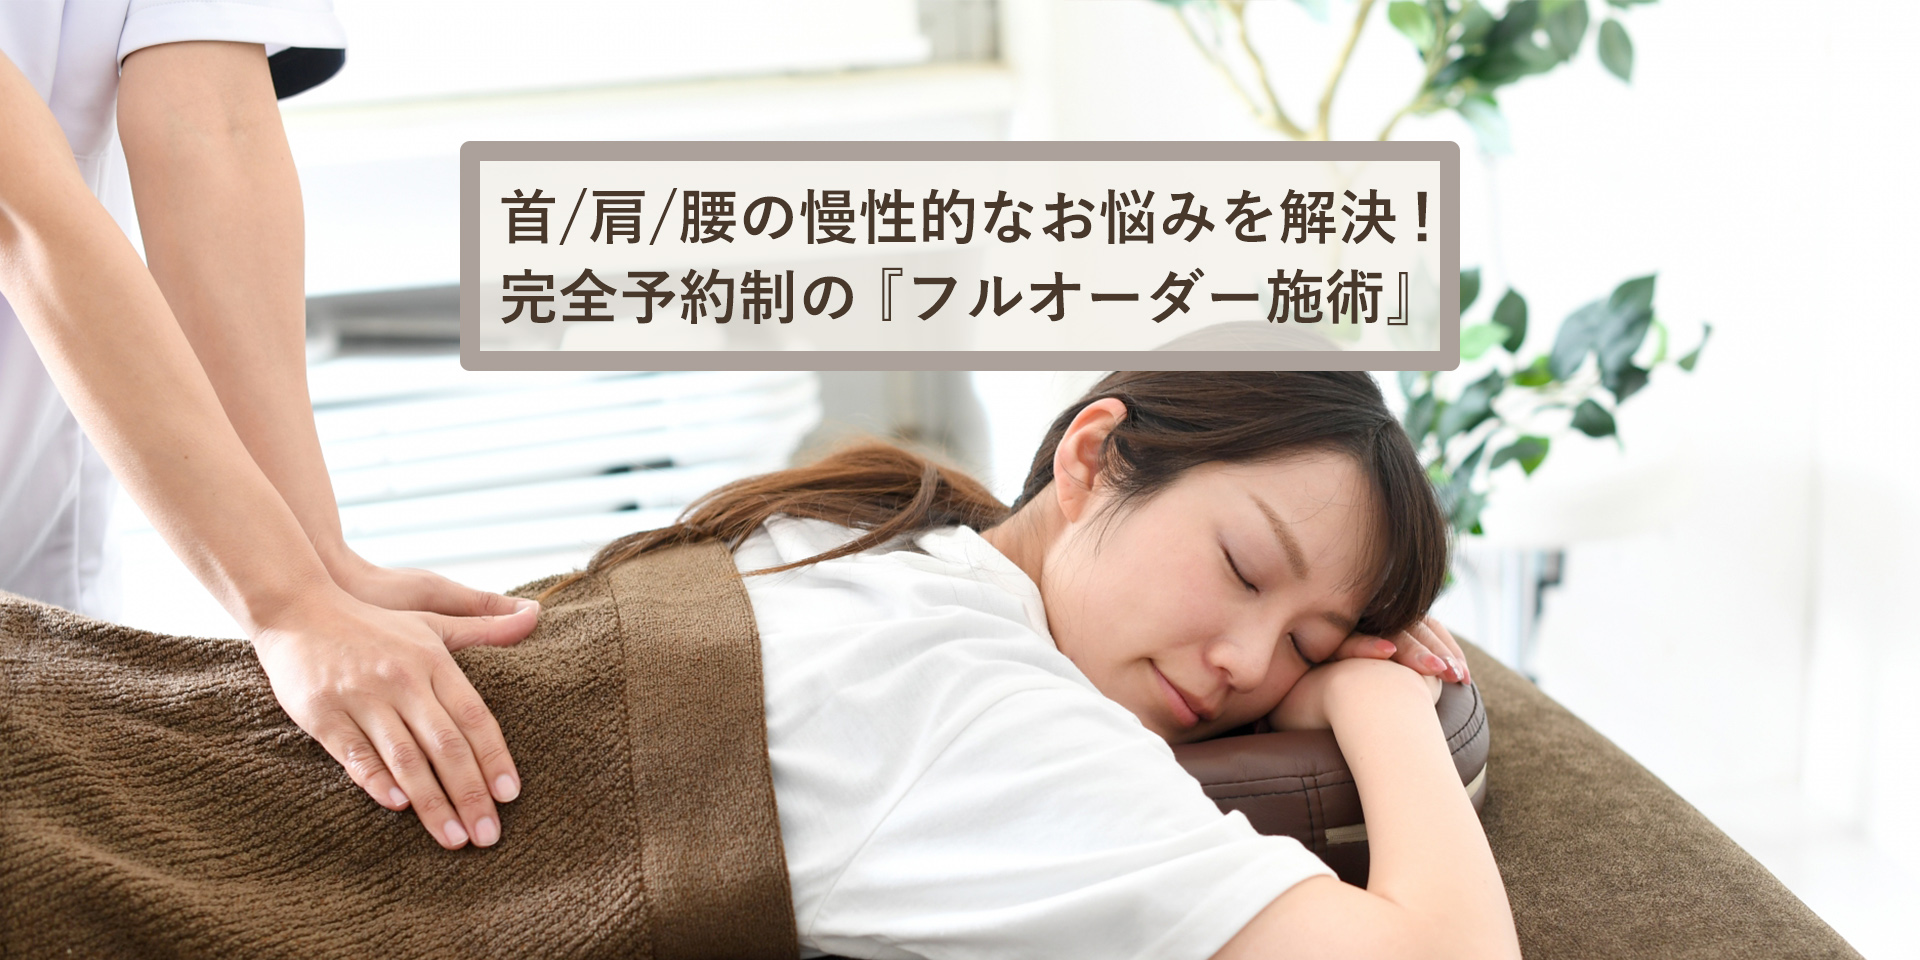
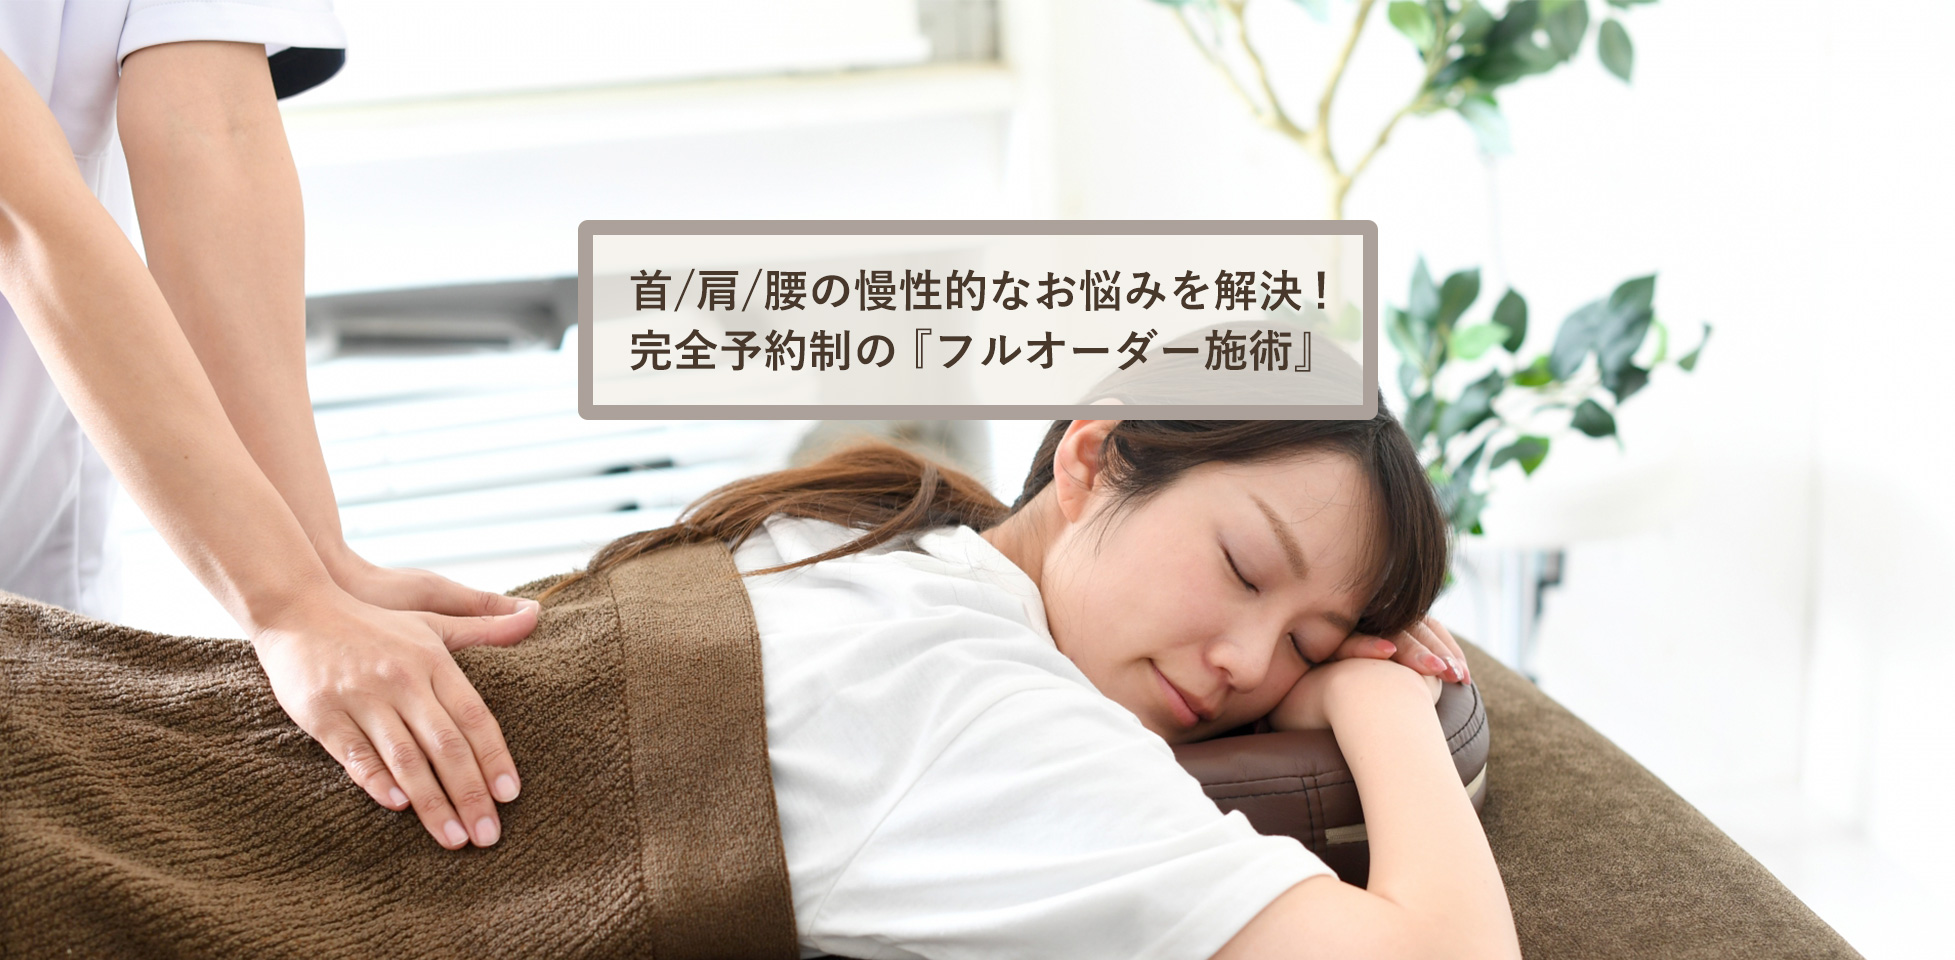
PC:ヘッダ～コンセプト修正

diff --git a/manipulative.css b/manipulative.css
@@ -329,10 +329,10 @@ a.totop:before {
     background-size: cover;
     background-position: center;
     width: 100%;
-    height: 100vh;
+    height: 70vh;
     z-index: -999;
     transition: 0.3s;
-    margin-top: 2%;
+    margin-top: 114px;
 }
 
 @media only screen and (max-width: 1450px) {
@@ -476,7 +476,7 @@ header {
     /* height: 10%; */
     width: 100%;
     background: #ACA19A;
-    height: 140px;
+    height: 114px;
     text-align: center;
 }
 
@@ -554,7 +554,7 @@ header {
     background-color: #48382B;
     outline: 1px solid rgb(255, 255, 255);
     outline-offset: -5px;
-    height: 139px;
+    height: 114px;
     width: 13%;
 }
 
@@ -579,6 +579,7 @@ header {
 
 .header__menu ul .menu__list {
     display: inline-block;
+    vertical-align: middle;
 }
 
 .header__menu_li {
@@ -617,7 +618,6 @@ header {
 
 .header__menu ul .menu__list a {
     display: block;
-    position: relative;
     padding: 15px 15px;
     margin: 1 1px;
     text-decoration: none;
@@ -910,11 +910,11 @@ header {
 
 /* title */
 #title {
-    position: relative;
+    /* position: relative; */
     text-align: center;
     width: 100%;
     height: 100%;
-    margin: 0 auto 40px;
+    margin: 0 auto 80px;
     vertical-align: middle;
 }
 
@@ -1050,23 +1050,19 @@ header {
 }
 
 .costplan {
-    display: table-cell;
-    vertical-align: middle;
-    position: absolute;
-    top: 0;
-    right: 0;
-    bottom: 0;
-    left: 0;
-    margin: auto;
-    width: 80%;
-    height: 2.5rem;
-    font-size: 30px;
+    display: block;
+    margin: 40px auto;
+    width: 300px;
+    height: 3rem;
+    font-size: 22px;
+    background-color: #48382B;
 }
 
 .costplan a {
-    font-weight: 400;
+    font-weight: 600;
     color: #FFFFFF;
     text-decoration: none;
+    vertical-align: -webkit-baseline-middle;
 }
 
 @media only screen and (max-width: 1890px) {
@@ -1561,7 +1557,7 @@ footer {
 
 .detail__matter {
     text-align: left;
-    font: normal normal normal 26px/52px Noto Sans JP;
+    font: normal normal normal 20px/52px Noto Sans JP;
     letter-spacing: 0px;
     color: #433838;
     opacity: 1;
@@ -1610,6 +1606,23 @@ footer {
         width: 100%;
         padding-left: 0;
     }
+}
+
+.cotent__btn {
+    display: block;
+    margin: 40px auto;
+    width: 300px;
+    height: 3rem;
+    font-size: 22px;
+    background-color: #48382B;
+    text-align: center;
+}
+
+.cotent__btn a {
+    font-weight: 600;
+    color: #FFFFFF;
+    text-decoration: none;
+    vertical-align: -webkit-baseline-middle;
 }
 
 /* ------------------------------------ */
@@ -1666,9 +1679,7 @@ footer {
 
 }
 .detail__img2 {
-    display: flex;
-    /* padding-top: 13px; */
-    width: 25%;
+    width: 20%;
     margin-left: 1%;
 }
 
@@ -1683,11 +1694,9 @@ footer {
     height: 48px;
     padding-top: 13px;
     background-color: rgba(233, 229, 222, 1.0);
-    font-size: 28px;
-    font-weight: 600;
     text-decoration: underline;
     text-align: left;
-    font: normal normal bold 28px/52px Noto Sans JP;
+    font: normal normal bold 22px/52px Noto Sans JP;
     letter-spacing: 0px;
     color: #433838;
     opacity: 1;
@@ -1699,7 +1708,7 @@ footer {
 .detail__list {
     height: 318px;
     text-align: left;
-    font: normal normal normal 26px/44px Noto Sans JP;
+    font: normal normal normal 18px/44px Noto Sans JP;
     letter-spacing: 0px;
     color: #433838;
     opacity: 1;
@@ -1880,6 +1889,9 @@ footer {
 /* ------------------------------------ */
 /* サービス案内ページ（SERVICE） */
 /* ------------------------------------ */
+.service__content {
+    margin: auto 150px;
+}
 @media only screen and (min-width: 767px) {
     .service__content ul .content__detail {
         padding: 30px 0;
@@ -1888,7 +1900,7 @@ footer {
 
     .service__content ul .content__detail .detail__text {
         display: inline-block;
-        width: 50%;
+        width: 60%;
         vertical-align: top;
     }
 
@@ -1910,7 +1922,7 @@ footer {
 
     .service__content ul .content__detail .detail__img {
         display: inline-block;
-        width: 50%;
+        width: 40%;
         vertical-align: top;
     }
 
@@ -1922,7 +1934,7 @@ footer {
 
     .service__content ul .content__detail .detail__img3 {
         display: inline-block;
-        width: 25%;
+        width: 20%;
         vertical-align: top;
     }
 
@@ -1942,8 +1954,8 @@ footer {
     }
 
     .service__content ul .content__detail .detail__img3 p {
-        width: calc(100% - 30px);
-        padding-left: 30px;
+        width: calc(100% - 10px);
+        padding-left: 10px;
     }
 
     .detail_shop img {

diff --git a/index.html b/index.html
@@ -37,7 +37,6 @@
             <li class="menu__list"><a href="#contact">お問合せ</a></li>
             <li class="menu__list menu__resrve">
               <a href="https://beauty.hotpepper.jp/kr/slnH000619064/" target="_blank" style="text-align: center;
-                  margin-top: 6%;
                   ">ご予約は<br>こちらから</a>
             </li>
           </ul>
@@ -83,12 +82,11 @@
           <h2>キャンペーン</h2>
           <hr>
           <p>Campaign</p>
-          <a href="https://beauty.hotpepper.jp/kr/slnH000619064/" target="_blank"><img src="img/seitai_banner.jpg"
-              alt="picture" class="banner" style="display: block; margin: auto;" style="width: 80%;"></a>
-          <div class=costplan__outside>
-            <div class=costplan>
-              <a href="https://beauty.hotpepper.jp/kr/slnH000619064/" target="_blank">料金表はこちら</a>
-            </div>
+          <div>
+            <a href="https://beauty.hotpepper.jp/kr/slnH000619064/" target="_blank"><img src="img/seitai_banner.jpg" alt="picture" class="banner" style="width: 40%;"></a>
+          </div>
+          <div class="costplan">
+            <a href="https://beauty.hotpepper.jp/kr/slnH000619064/" target="_blank">料金表はこちら</a>
           </div>
         </div>
       </section>
@@ -148,17 +146,13 @@
                 <p class="borderline"></p>
               </div>
               <li class="content__detail">
-                <div class="detail__text--kanpo">
+                <div class="detail__text">
                   <p class="detail__title">厳選した漢方を販売</p>
-                  <p class="detail__matter">
-                    【冷え・体の内側から整えたい方】整体院に併設して漢方・オーガニック商品も取り扱っております。冷え・むくみなどのお悩みも一緒に解決できるように漢方アドバイザーの資格を持った者が対応いたします。</p>
+                  <p class="detail__matter">冷え・体の内側から整えたい方】整体院に併設して漢方・オーガニック商品も取り扱っております。冷え・むくみなどのお悩みも一緒に解決できるように漢方アドバイザーの資格を持った者が対応いたします。</p>
+                  <div class="cotent__btn"><a href="https://online-mart-tokyo.myshopify.com/">MART公式販売</a></div>
                 </div>
 
-                <div class="liimage">
-                  <!-- <div class="detail__img2--kanpo"><img src="img/concept03-01.png"></div> -->
-                  <div class="detail__img2--kanpo"><img src="img/concept03-02.png"></div>
-                  <a class="btn btn--y" href="https://online-mart-tokyo.myshopify.com/">MART公式販売</a>
-                </div>
+                <div class="detail__img"><img src="img/concept03-02.png"></div>
               </li>
             </ul>
           </div>
@@ -169,7 +163,7 @@
       <section class="block-l">
         <div id="intrior">
           <div id="title">
-            <h2 style="margin-top: 200px;">お店の特徴</h2>
+            <h2>お店の特徴</h2>
             <hr>
             <p>Intrior</p>
           </div>
